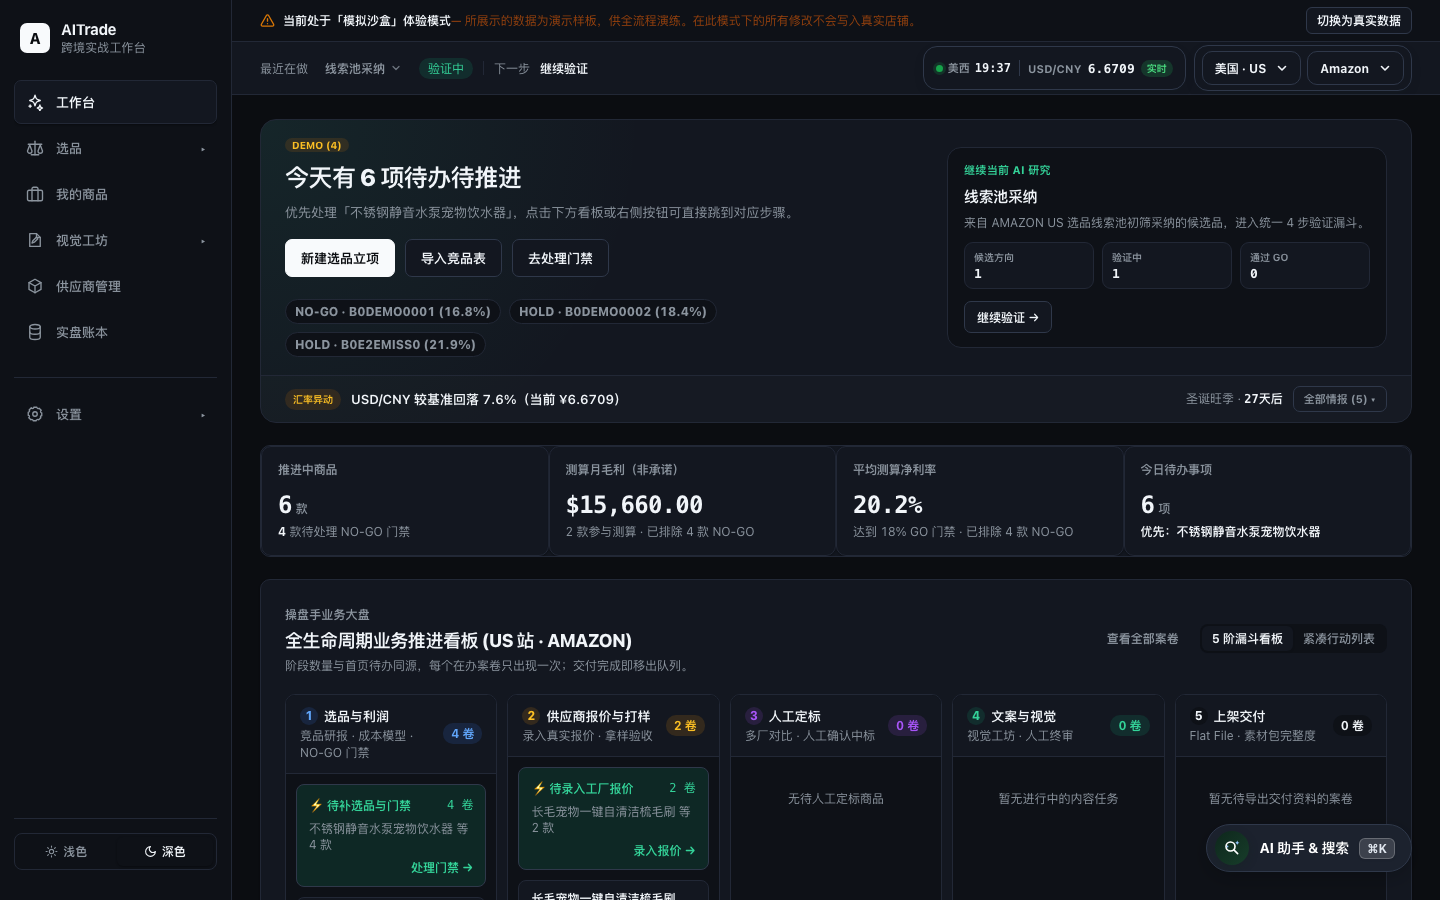
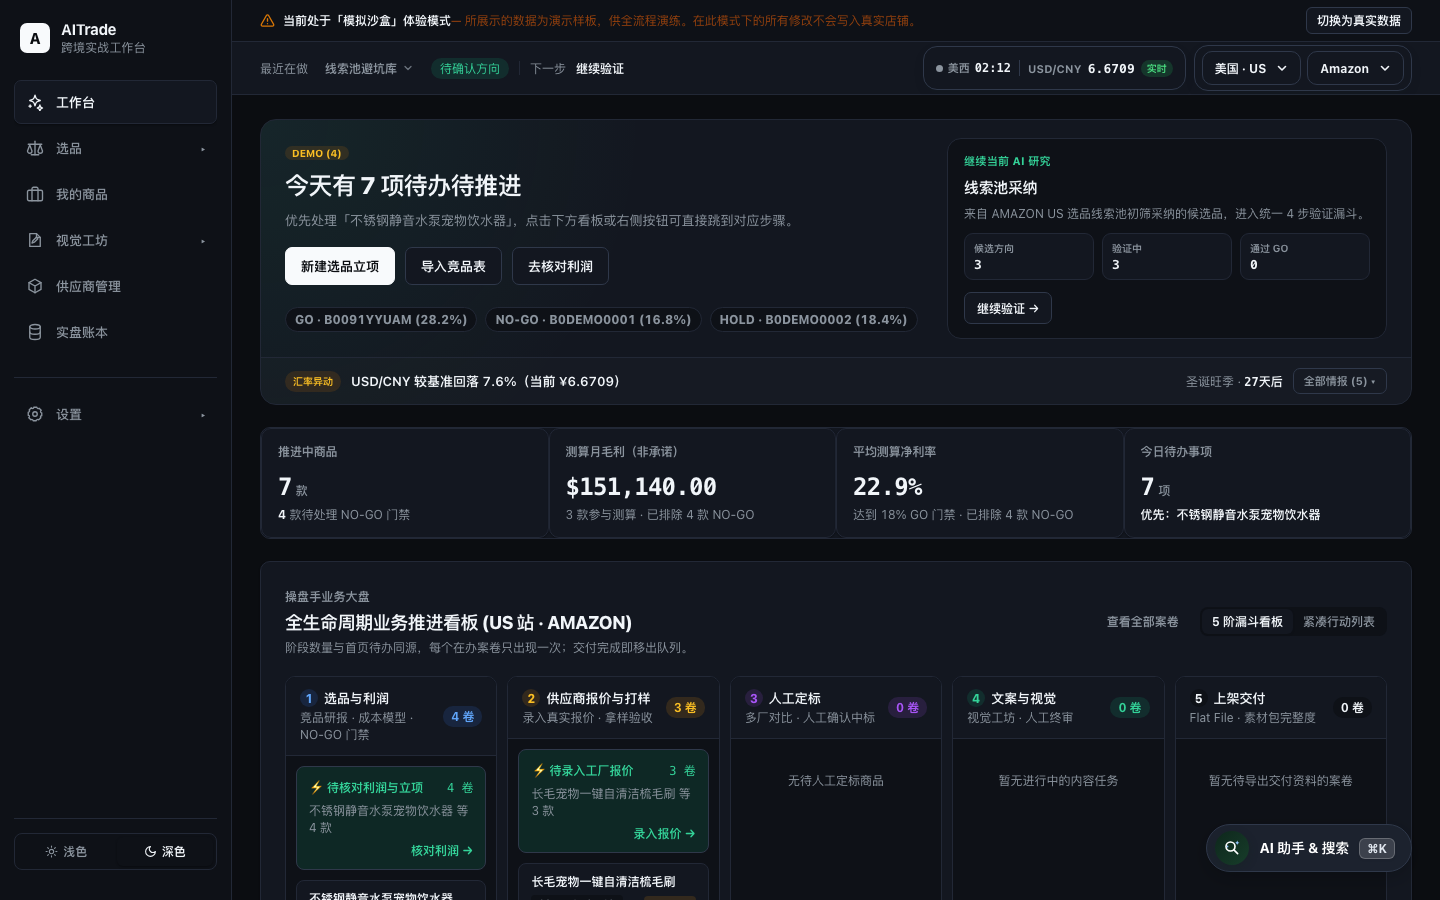
docs: refresh README screenshots and clarify stage1 profit check label

diff --git a/src/lib/case-stage.ts b/src/lib/case-stage.ts
@@ -150,7 +150,7 @@ const ACTION_QUEUE_STAGE_META: Record<
   CaseActionQueueStage,
   { label: string; shortAction: string; priority: number }
 > = {
-  stage1: { label: "待补选品与门禁", shortAction: "处理门禁", priority: 1 },
+  stage1: { label: "待核对利润与立项", shortAction: "核对利润", priority: 1 },
   stage2: { label: "待录入工厂报价", shortAction: "录入报价", priority: 2 },
   stage3: { label: "待对比定标", shortAction: "对比定标", priority: 3 },
   stage4: { label: "待完成内容与视觉", shortAction: "制作内容", priority: 4 },
